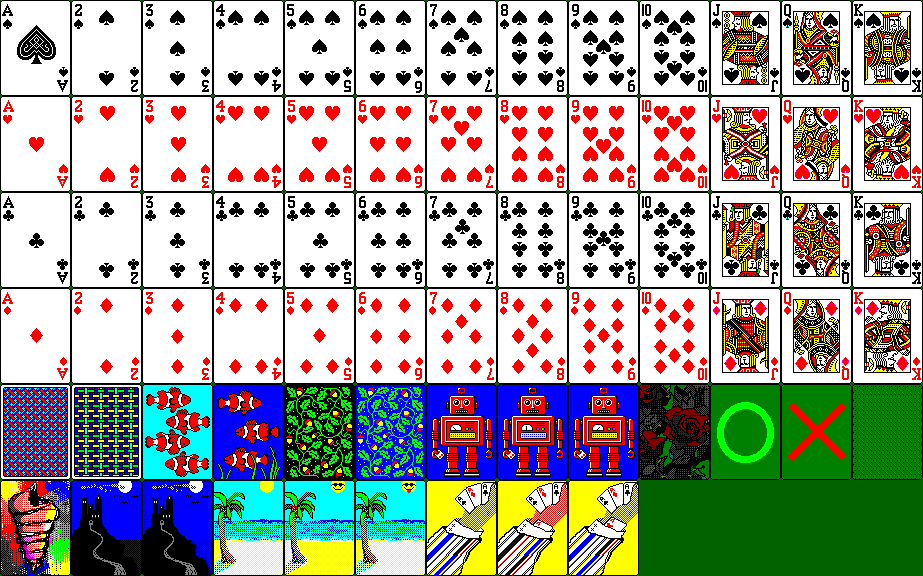
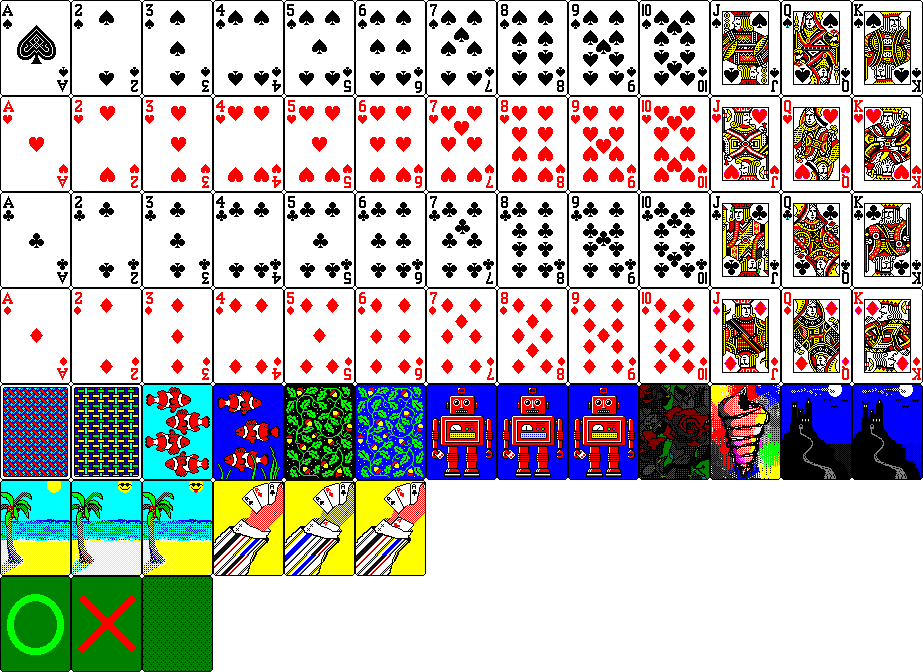
Fix decks

diff --git a/solitaire.js b/solitaire.js
@@ -10,6 +10,10 @@
 const LOGICAL_W = 640;          // logical canvas width (fixed; canvas scales to match)
 const CARD_W    = 71;           // sprite tile width  (px)
 const CARD_H    = 96;           // sprite tile height (px)
+const BACK_START_ROW = 4;
+const SS_CARDS_PER_ROW = 13;    // cards per row in the sprite sheet
+const DC_CARDS_PER_ROW = 6;     // deck chooser cards per row
+const DC_CARD_PADDING = 4;      // deck chooser card padding
 
 const SPRITE_URL = 'cards.png';
 
@@ -20,7 +24,7 @@ const RED_SUITS = new Set(['H', 'D']);
 
 // Available card-back column indices in sprite-sheet row 4.
 // Column 7 is the classic Win3.1 blue-robot back (default).
-const BACK_COLS = [0, 1, 2, 3, 4, 5, 6, 7, 8, 9, 10, 11, 12];
+const BACKS = [[0],[1],[2],[3],[4],[5],[6,7,8],[9],[10],[11,12],[13,14,15],[16,17,18]];
 
 // Base layout positions in logical coordinates (640 wide)
 const L = {
@@ -75,8 +79,8 @@ const ctx    = canvas.getContext('2d');
 let spriteSheet = null;
 let spriteReady = false;    // true once the sprite image has loaded
 
-let selectedBack = 7;       // column index in sprite-sheet row 4 (default = robot)
-let pendingBack  = 7;       // staged value while deck dialog is open
+let selectedBack = 9;       // combined row/col index, starting in row 4
+let pendingBack  = 9;       // staged value while deck dialog is open
 
 const options = {
     timed:      true,
@@ -185,7 +189,9 @@ function deepClone(s) {
 
 function canDropOnTableau(card, colIdx) {
     const col = state.tableau[colIdx];
-    if (col.length === 0) return card.rank === 13;   // only Kings on empty
+    if (col.length === 0) {
+        return card.rank === 13;   // only Kings on empty
+    }
     const top = col[col.length - 1];
     return top.faceUp &&
            cardIsRed(card) !== cardIsRed(top) &&
@@ -388,9 +394,11 @@ function drawCard(card, x, y) {
 
 // Draw a face-down card back
 function drawBack(x, y) {
+    const backStartY = BACK_START_ROW * CARD_H;
     if (spriteReady) {
-        const sx = selectedBack * CARD_W;
-        const sy = 4 * CARD_H;
+        const spriteIndex = BACKS[selectedBack][0];
+        const sx = (spriteIndex * CARD_W) % spriteSheet.width;
+        const sy = (Math.trunc(spriteIndex / SS_CARDS_PER_ROW) * CARD_H) + backStartY;
         ctx.drawImage(spriteSheet, sx, sy, CARD_W, CARD_H, x, y, CARD_W, CARD_H);
     } else {
         drawBackFallback(x, y);
@@ -1190,32 +1198,41 @@ function hideDeckDialog(apply) {
 function renderDeckChooser() {
     const dc    = document.getElementById('deck-chooser');
     const dctx  = dc.getContext('2d');
-    const cols  = 4;
-    const rows  = Math.ceil(BACK_COLS.length / cols);
-    const pad   = 4;
-    const cell  = CARD_W + pad;
+    const rows  = Math.ceil(BACKS.length / DC_CARDS_PER_ROW);
+    const cell  = CARD_W + DC_CARD_PADDING;
+    const backStartY = BACK_START_ROW * CARD_H;
 
-    dc.width  = cols * cell + pad;
-    dc.height = rows * (CARD_H + pad) + pad;
+    dc.width  = DC_CARDS_PER_ROW * cell + DC_CARD_PADDING;
+    dc.height = rows * (CARD_H + DC_CARD_PADDING) + DC_CARD_PADDING;
 
     dctx.fillStyle = '#c0c0c0';
     dctx.fillRect(0, 0, dc.width, dc.height);
 
-    for (let i = 0; i < BACK_COLS.length; i++) {
-        const col  = i % cols;
-        const row  = Math.floor(i / cols);
-        const x    = pad + col * cell;
-        const y    = pad + row * (CARD_H + pad);
-        const bcol = BACK_COLS[i];
+    for (let i = 0; i < BACKS.length; i++) {
+        const col  = i % DC_CARDS_PER_ROW;
+        const row  = Math.floor(i / DC_CARDS_PER_ROW);
+        const x    = DC_CARD_PADDING + col * cell;
+        const y    = DC_CARD_PADDING + row * (CARD_H + DC_CARD_PADDING);
+        const spriteIndex = BACKS[i][0];
 
         if (spriteReady) {
-            dctx.drawImage(spriteSheet, bcol * CARD_W, 4 * CARD_H, CARD_W, CARD_H, x, y, CARD_W, CARD_H);
+            dctx.drawImage(
+                spriteSheet,
+                (spriteIndex * CARD_W) % spriteSheet.width,
+                (Math.trunc(spriteIndex / SS_CARDS_PER_ROW) * CARD_H) + backStartY,
+                CARD_W,
+                CARD_H,
+                x,
+                y,
+                CARD_W,
+                CARD_H
+            );
         } else {
             dctx.fillStyle = '#000080';
             dctx.fillRect(x, y, CARD_W, CARD_H);
         }
 
-        if (pendingBack === bcol) {
+        if (pendingBack === i) {
             dctx.strokeStyle = '#ffff00';
             dctx.lineWidth   = 3;
             dctx.strokeRect(x - 1, y - 1, CARD_W + 2, CARD_H + 2);
@@ -1304,13 +1321,11 @@ function init() {
         const rect = dc.getBoundingClientRect();
         const px   = (e.clientX - rect.left) * (dc.width  / rect.width);
         const py   = (e.clientY - rect.top)  * (dc.height / rect.height);
-        const cols = 4;
-        const pad  = 4;
-        const col  = Math.floor((px - pad) / (CARD_W + pad));
-        const row  = Math.floor((py - pad) / (CARD_H + pad));
-        const idx  = row * cols + col;
-        if (idx >= 0 && idx < BACK_COLS.length) {
-            pendingBack = BACK_COLS[idx];
+        const col  = Math.floor((px - DC_CARD_PADDING) / (CARD_W + DC_CARD_PADDING));
+        const row  = Math.floor((py - DC_CARD_PADDING) / (CARD_H + DC_CARD_PADDING));
+        const idx  = row * DC_CARDS_PER_ROW + col;
+        if (idx >= 0 && idx < BACKS.length) {
+            pendingBack = idx;
             renderDeckChooser();
         }
     });
